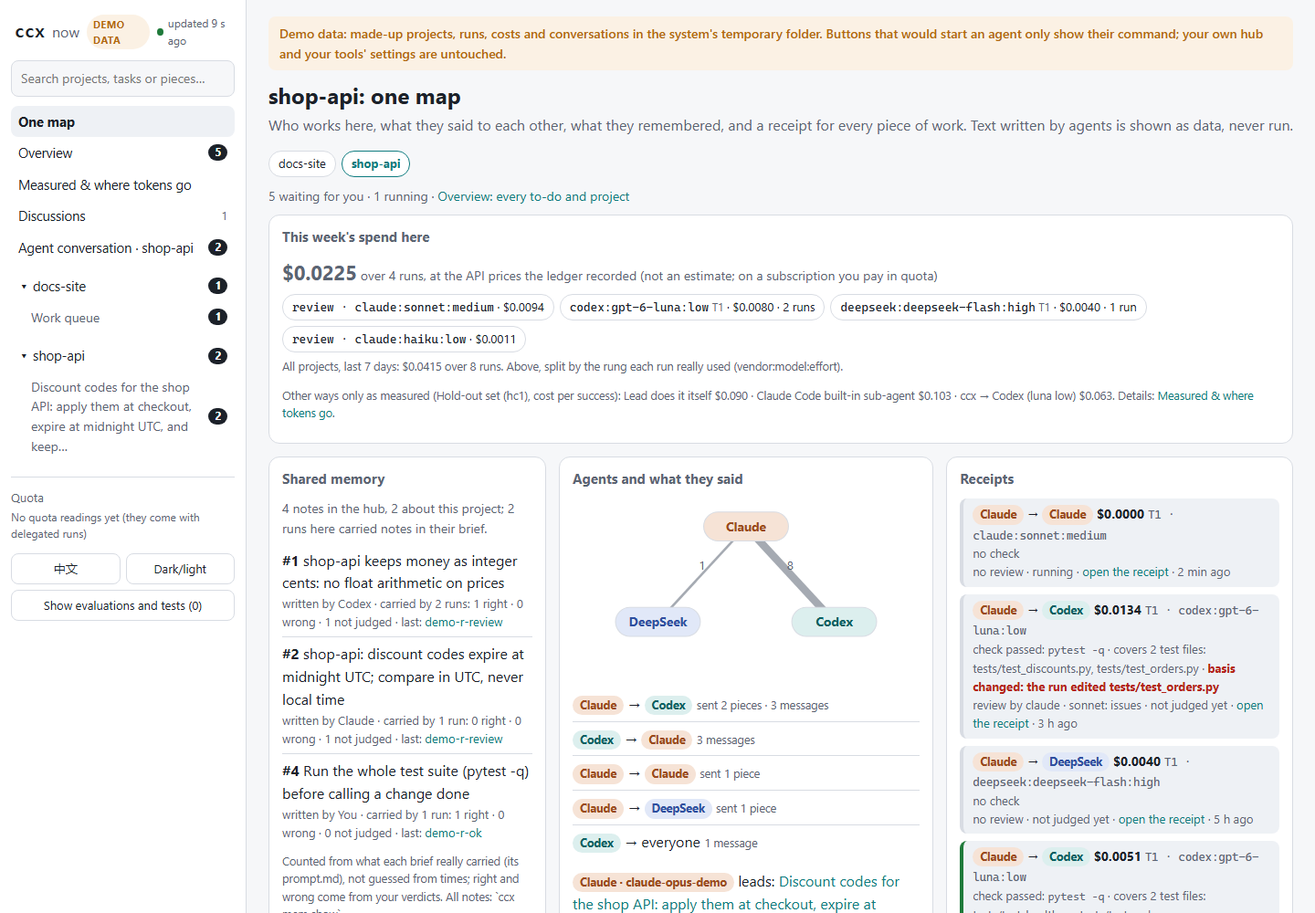
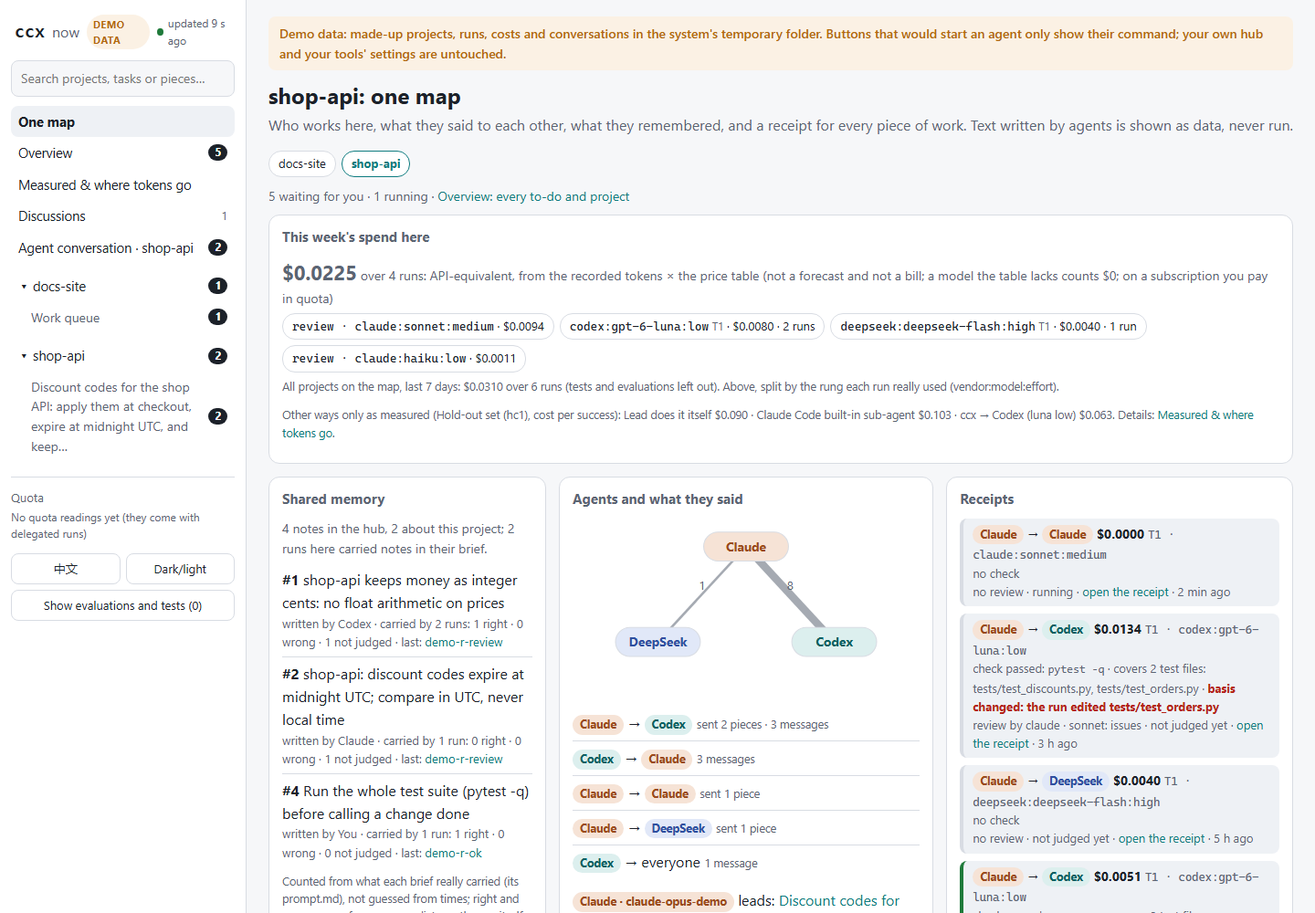
首页一张图：修审查意见（soft 判断不算你的、审查花费不重复算、测试运行不上图、措辞改成 API 等价花费）
- _outcome / 收据只认你的判断；dismissed、被停下、超预算、policy、环境等算未定
- 收据和档位标签取最后一次尝试的 tier；审查花费单独一个标签
- 只读 ## Task 之前的便签段；对话板话题按 since 过滤；派活连线按 vendor_of 归名
- 总览本周花费不再重复算审查运行；运行按项目先分组一次
- 页面记住上次显示的项目；文档改成"总览（#/all）"；重拍首页截图

Changed region(s): [[0.2188, 0.279, 0.9688, 1.0], [0.7188, 0.496, 0.9688, 0.992], [0.4375, 0.496, 0.6875, 1.0]]

diff --git a/ccx/ui_static/app.js b/ccx/ui_static/app.js
@@ -348,10 +348,12 @@
     return "";
   }
   function whoOrYou(w) { return vendorOf(w) === "user" ? `<span class="who you">${t("conv_you")}</span>` : who(vendorOf(w)); }
+  let MAPPID = null;
   function renderMap(pid) {
     const ms = maps();
     if (!ms.length) return renderOverview();          /* nothing worked on yet: the overview's first steps */
-    const m = ms.find(x => x.id === pid) || busiest(ms), pr = findProject(m.id);
+    const m = ms.find(x => x.id === pid) || ms.find(x => x.id === MAPPID) || busiest(ms), pr = findProject(m.id);
+    MAPPID = m.id;                                    /* the next poll keeps this project, it never jumps */
     let h = banner() + `<h1>${t("map_title", {p: m.name})}</h1><p class="lead">${t("map_intro")}</p>`;
     if (ms.length > 1) h += `<nav class="mapproj" aria-label="${esc(t("projects"))}">` + ms.map(x =>
       `<a class="chip${x.id === m.id ? " cur" : ""}" href="${mapHref(x.id)}"${x.id === m.id ? ` aria-current="page"` : ""}>${esc(x.name)}</a>`).join("") + `</nav>`;
@@ -371,7 +373,8 @@
     return `<p class="stat">${n ? `<span class="warn">${t("map_wait", {n})}</span>` : `<span class="good">${t("ov_nothing")}</span>`} · ${t("map_running", {n: running})} · <a href="#/all">${t("map_all")}</a></p>`;
   }
   function mapSpendHTML(m) {
-    const s = m.spend || {}, w = (D && D.week) || {}, ref = D && D.measured_ref;
+    const s = m.spend || {}, ref = D && D.measured_ref;
+    const w = maps().reduce((a, x) => ({usd: a.usd + ((x.spend || {}).usd || 0), runs: a.runs + ((x.spend || {}).runs || 0)}), {usd: 0, runs: 0});
     let h = `<h2>${t("map_spend")}</h2><p class="stat"><b class="big">${usd(s.usd || 0)}</b> ${t("map_spend_runs", {n: s.runs || 0})}</p>`;
     if ((s.rungs || []).length) h += `<div class="rungs">` + s.rungs.map(r => `<span class="chip"><span class="mono">${r.review ? t("map_rung_review") + " · " : ""}${esc(r.rung)}</span>${r.tier ? ` <i>${esc(r.tier)}</i>` : ""} · ${usd(r.usd)}${r.runs ? " · " + t("map_runs_n", {n: r.runs}) : ""}</span>`).join("") + `</div>`;
     h += `<p class="cost">${t("map_spend_all", {u: usd(w.usd || 0), n: w.runs || 0})}</p>`;

diff --git a/ccx/ui.py b/ccx/ui.py
@@ -1235,9 +1235,11 @@ def brief_notes(rd: Reader, run_dir: Path) -> list[int]:
     except OSError:
         return []
     seqs: list[int] = []
-    i = text.find(NOTES_HEAD)
+    j = text.find("\n## Task")                 # the notes sit above the task: a brief quoting the line is no note
+    j = j if j >= 0 else len(text)
+    i = text.find(NOTES_HEAD, 0, j)
     if i >= 0:
-        for line in text[i:].splitlines()[1:]:
+        for line in text[i:j].splitlines()[1:]:
             if not line.strip() or line.startswith("#"):        # the block ends at a blank line or the next heading
                 break
             m = _NOTE_LINE.match(line)
@@ -1247,13 +1249,26 @@ def brief_notes(rd: Reader, run_dir: Path) -> list[int]:
     return seqs
 
 
-def _outcome(rec: dict, verdict: dict | None) -> str:
-    """right / wrong / open: the person's verdict first, then a run that ended failed; a done run nobody judged is open."""
+# a run that ended for one of these reasons says nothing about whether the work (or a note it carried) was right
+NOT_WRONG = {"env", "quota", "user_stopped", "over_budget", "policy", "needs_write", "timeout", "no_answer"}
+
+
+def _hard(rec: dict, verdict: dict | None) -> dict | None:
+    """The person's own verdict, or None: an automatic (soft) one is not theirs."""
     v = verdict if verdict is not None else rec.get("verdict")
-    if v and v.get("ok") is not None:
+    return v if v and v.get("ok") is not None and not v.get("soft") else None
+
+
+def _outcome(rec: dict, verdict: dict | None) -> str:
+    """right / wrong / open: the person's verdict first, then a run that ended failed; a done run nobody judged, a
+    dismissed one, or one stopped by its machine, quota, budget, policy or the person, is open."""
+    v = _hard(rec, verdict)
+    if v:
         return "right" if v["ok"] else "wrong"
-    if rec.get("state") == "finished" and rec.get("ok") is False and rec.get("kind") not in ("env", "quota"):
-        return "wrong"                            # a run its machine or quota stopped says nothing about the notes
+    if rec.get("dismissed"):
+        return "open"
+    if rec.get("state") == "finished" and rec.get("ok") is False and rec.get("kind") not in NOT_WRONG:
+        return "wrong"
     return "open"
 
 
@@ -1275,10 +1290,11 @@ def receipt_row(rd: Reader, p: Paths, rec: dict, verdict: dict | None, piece_run
                          own_only=bool(cov.get("own_tests_only")))
             if cov.get("basis_changed"):
                 check["basis_changed"] = [_field(x) for x in (cov.get("edited") or [])[:3]]
-    v = verdict if verdict is not None else rec.get("verdict")
+    v = _hard(rec, verdict)
+    last = atts[-1] if atts else {}
     return {"run_id": rec["run_id"], "piece": piece_run.get(rec["run_id"], rec["run_id"]), "ts": rec.get("ts"),
-            "from": rec.get("caller"), "to": rec.get("to"), "tier": rec.get("tier"),
-            "rung": (atts[-1].get("rung") if atts else None) or rec.get("first_rung"), "rounds": len(atts),
+            "from": rec.get("caller"), "to": rec.get("to"), "tier": last.get("tier") or rec.get("tier"),
+            "rung": last.get("rung") or rec.get("first_rung"), "rounds": len(atts),
             "usd": _usd(rec), "running": rec.get("state") == "running", "ok": rec.get("ok"), "kind": rec.get("kind"),
             "check": check,
             "review": rv.get("verdict") if rv.get("verdict") not in (None, "not-run") else None,
@@ -1287,10 +1303,10 @@ def receipt_row(rd: Reader, p: Paths, rec: dict, verdict: dict | None, piece_run
             "notes": brief_notes(rd, p.runs / rec["run_id"])}
 
 
-def _map_threads(rd: Reader, root: Path, todos: list[dict]) -> tuple[list[dict], dict]:
-    """The board's threads (newest first) with who took part and whether one waits for the person, and the
-    messages between agents counted per pair (from -> to; to `all` counts once)."""
-    es = board_entries(rd, root)
+def _map_threads(rd: Reader, root: Path, todos: list[dict], since: float) -> tuple[list[dict], dict]:
+    """The board's threads (newest first, from messages since `since`) with who took part and whether one waits for the
+    person, and the messages between agents counted per pair (from -> to; to `all` counts once)."""
+    es = [e for e in board_entries(rd, root) if (_board_ts(e.get("ts")) or 0) >= since]
     wait = {}
     for x in todos:
         wait.setdefault(x["key"], x["kind"])
@@ -1313,18 +1329,18 @@ def _map_threads(rd: Reader, root: Path, todos: list[dict]) -> tuple[list[dict],
 
 
 def project_map(rd: Reader, p: Paths, pr: dict, runs: list[dict], verdicts: dict, piece_run: dict[str, str],
-                conv: dict | None, talks: list[dict], week_from: float) -> dict:
+                conv: dict | None, talks: list[dict], week_from: float, since: float = 0) -> dict:
     """P2-10: one project on one page. Middle: the agents and what they said to each other (board threads, `ccx
     discuss` talks, who sent work to whom); left: shared memory and the runs whose brief carried a note, with how
     they ended; right: the receipts; top: this week's actual spend by the rung it ran on. Read only, never a model."""
     root = Path(pr["path"])
     runs = sorted(runs, key=lambda r: -float(r.get("ts") or 0))
     rows = [receipt_row(rd, p, r, verdicts.get(r["run_id"]), piece_run) for r in runs]
-    threads, pairs = _map_threads(rd, root, (conv or {}).get("todos") or [])
+    threads, pairs = _map_threads(rd, root, (conv or {}).get("todos") or [], since)
     sent: dict[tuple, int] = {}
     for r in runs:
         if r.get("caller") and r.get("to"):
-            k = (str(r["caller"]), str(r["to"]))
+            k = (board.vendor_of(str(r["caller"])), board.vendor_of(str(r["to"])))   # named as the board does
             sent[k] = sent.get(k, 0) + 1
     names = {a for k in [*sent, *pairs] for a in k if a not in ("all", "user")}
     names |= {t["lead"]["agent"] for t in pr["tasks"] if t["lead"].get("agent")}
@@ -1362,12 +1378,12 @@ def project_map(rd: Reader, p: Paths, pr: dict, runs: list[dict], verdicts: dict
     for r in week:
         for a in r.get("attempts") or []:
             k = a.get("rung") or "?"
-            x = rungs.setdefault(k, {"rung": k, "tier": r.get("tier"), "usd": 0.0, "runs": 0})
+            x = rungs.setdefault(k, {"rung": k, "tier": a.get("tier") or r.get("tier"), "usd": 0.0, "runs": 0})
             x["usd"] = round(x["usd"] + float(a.get("ae_usd") or 0), 6)
         rv = r.get("review") or {}
-        if rv.get("usd"):                         # the review's own spend, under the rung that reviewed
-            k = rv.get("by") or "review"
-            x = rungs.setdefault(k, {"rung": k, "tier": None, "usd": 0.0, "runs": 0, "review": True})
+        if rv.get("usd"):                         # the review's own spend: a chip of its own beside the rung's
+            by = rv.get("by") or "?"
+            x = rungs.setdefault("review:" + by, {"rung": by, "tier": None, "usd": 0.0, "runs": 0, "review": True})
             x["usd"] = round(x["usd"] + float(rv["usd"]), 6)
         for k in {a.get("rung") or "?" for a in r.get("attempts") or []}:
             rungs[k]["runs"] += 1
@@ -1563,7 +1579,7 @@ def collect(p: Paths, project: Path | None = None, days: float = 7, rd: Reader |
               for e in quiet[:12]]
 
     providers = set((cfg.get("providers") or {}).keys())
-    week = [r for r in recs.values() if float(r.get("ts") or 0) >= now - 7 * 86400]
+    week = [r for r in shown.values() if float(r.get("ts") or 0) >= now - 7 * 86400]   # a review is in its run's
     hard = [v for v in verdicts.values() if not v.get("soft")]
     agents = sorted({pc["worker"] for pr in projects for t in pr["tasks"] for pc in _walk(t["pieces"])
                      if pc.get("worker")} | {x["agent"] for x in current})
@@ -1585,11 +1601,15 @@ def collect(p: Paths, project: Path | None = None, days: float = 7, rd: Reader |
     convs.sort(key=lambda c: -(c["last"] or 0))
     maps = []                                                 # P2-10: the home page, one map per project
     conv_of = {c["id"]: c for c in convs}
+    real_by_root: dict[Path, list[dict]] = {}                 # a test or evaluation run is not the project's work
+    for r in shown.values():
+        if not is_test(r, scratch):
+            real_by_root.setdefault(root_of(r), []).append(r)
     for pr in projects:
         root = Path(pr["path"])
         try:
-            maps.append(project_map(rd, p, pr, [r for r in shown.values() if root_of(r) == root], verdicts,
-                                    piece_run, conv_of.get(pr["id"]), talks, now - 7 * 86400))
+            maps.append(project_map(rd, p, pr, real_by_root.get(root, []), verdicts,
+                                    piece_run, conv_of.get(pr["id"]), talks, now - 7 * 86400, since))
         except Exception:  # noqa: BLE001 — the page still shows the rest
             continue
     from . import memsuggest

diff --git a/tests/test_ui_map.py b/tests/test_ui_map.py
@@ -64,10 +64,13 @@ def test_brief_notes_reads_only_the_notes_block(tmp_path):
     rd = ui.Reader(Paths(tmp_path / "hub"))
     d = tmp_path / "run"
     d.mkdir()
-    (d / "prompt.md").write_text("## Task\nfix - #9 (x): not a note\n\n" + ui.NOTES_HEAD + " (facts):\n"
-                                 "- #3 (shop-api): money in cents\n- #12 (general): run pytest\n\n## Finish\n"
+    (d / "prompt.md").write_text("Run x\n" + ui.NOTES_HEAD + " (facts):\n- #3 (shop-api): money in cents\n"
+                                 "- #12 (general): run pytest\n\n## Task\nfix - #9 (x): not a note\n\n## Finish\n"
                                  "- #44 (later): not in the block\n", encoding="utf-8")
     assert ui.brief_notes(rd, d) == [3, 12]
+    # the person's brief quoting the notes line (below "## Task") is not a note the brief carried
+    (d / "prompt.md").write_text("Run x\n## Task\n" + ui.NOTES_HEAD + ":\n- #7 (x): quoted\n", encoding="utf-8")
+    assert ui.brief_notes(rd, d) == []
     (d / "prompt.md").write_text("## Task\nno notes\n", encoding="utf-8")
     assert ui.brief_notes(rd, d) == []
     assert ui.brief_notes(rd, tmp_path / "missing") == []
@@ -127,3 +130,45 @@ def test_page_keeps_every_old_entry_and_has_both_languages():
     import re
     used = {k for k in re.findall(r'"(map_[a-z_]+)"', js) if not k.endswith("_")}      # "map_rv_" + verdict: a prefix
     assert used <= keys | {k[:-2] for k in keys if k.endswith("_1")}, used - keys
+
+
+def test_only_the_persons_own_verdict_and_a_real_failure_count():
+    """An automatic (soft) verdict is not the person's; a dismissed run, or one stopped by the person, a budget, a
+    policy or its machine, says nothing about whether the work was right."""
+    done = {"run_id": "r", "state": "finished", "ok": False, "kind": "check_failed"}
+    assert ui._outcome(done, None) == "wrong"
+    assert ui._outcome({**done, "ok": True}, {"ok": True, "soft": True}) == "open"
+    assert ui._outcome(done, {"ok": True}) == "right"
+    assert ui._outcome({**done, "dismissed": True}, None) == "open"
+    for kind in ("user_stopped", "over_budget", "policy", "needs_write", "timeout", "no_answer", "env", "quota"):
+        assert ui._outcome({**done, "kind": kind}, None) == "open", kind
+
+
+def test_receipt_takes_the_last_attempts_tier_and_ignores_a_soft_verdict(tmp_path):
+    p = Paths(tmp_path / "hub")
+    rec = {"run_id": "r", "state": "finished", "ok": True, "tier": "T1",
+           "attempts": [{"rung": "codex:a:low", "tier": "T1"}, {"rung": "codex:b:high", "tier": "T3"}]}
+    row = ui.receipt_row(ui.Reader(p), p, rec, {"ok": True, "soft": True}, {})
+    assert row["verdict"] is None and row["outcome"] == "open"
+    assert (row["tier"], row["rung"]) == ("T3", "codex:b:high")          # the tier the last attempt really ran on
+
+
+def test_map_leaves_out_test_runs_and_the_week_counts_a_review_once():
+    """An evaluation run in a real project is not on its map; a review (an ephemeral run of its own) is counted in
+    its run's spend only, so the week line is the maps' sum here."""
+    base = demo.new_base()
+    try:
+        p = demo.build(base)
+        with mock.patch.dict(os.environ, demo.env(base)):
+            src = json.loads((p.runs / "demo-r-ok" / "run.json").read_text(encoding="utf-8"))
+            ev = {**src, "run_id": "eval-x", "label": "eval-hc1-x", "ts": src["ts"] + 1,
+                  "attempts": [{**src["attempts"][0], "ae_usd": 5.0}]}
+            (p.runs / "eval-x").mkdir()
+            (p.runs / "eval-x" / "run.json").write_text(json.dumps(ev), encoding="utf-8")
+            assert ui.is_test(ev, ui.scratch_roots(p))
+            d = ui.collect(p, quota_wait=False)
+    finally:
+        demo.remove(base)
+    m = the_map(d, demo.SHOP)
+    assert "eval-x" not in {r["run_id"] for r in m["receipts"]} and m["spend"]["usd"] < 1
+    assert round(d["week"]["usd"] - ui._usd(ev), 4) == round(sum(x["spend"]["usd"] for x in d["maps"]), 4)

diff --git a/ccx/demo.py b/ccx/demo.py
@@ -96,10 +96,11 @@ def _run(p: Paths, run_id: str, cwd: Path, brief: str, ts: float, *, to: str = "
     d = p.runs / run_id
     d.mkdir(parents=True, exist_ok=True)
     _write(d / "run.json", json.dumps(rec, ensure_ascii=False, indent=1))
-    # the shared notes the brief carried, as delegate._brief_notes writes them (the home page links note -> run)
+    # the shared notes the brief carried, where delegate._brief_notes puts them: above the task (the home page links
+    # note -> run)
     carried = ("Shared notes that may bear on this task (facts recorded earlier; check before relying on them):\n"
                + "".join(f"- #{e['seq']} ({e['topic']}): {e['text']}\n" for e in notes) + "\n") if notes else ""
-    _write(d / "prompt.md", f"[ccx sub-task {run_id}]\n## Task\n{brief}\n\n{carried}## Finish\nReturn the result JSON.\n")
+    _write(d / "prompt.md", f"[ccx sub-task {run_id}]\n{carried}## Task\n{brief}\n\n## Finish\nReturn the result JSON.\n")
     if record and rec["state"] == "finished":
         from . import ledger
         ledger.append(p, rec)

diff --git a/docs/features.zh.md b/docs/features.zh.md
@@ -31,11 +31,11 @@
 
 ## 实时看：`ccx ui`
 
-**首页是一个项目一张图**（P2-10）：中间是这个项目里的智能体和它们之间的往来（谁给谁派活、对话板话题、`ccx discuss` 讨论；被机器连续条数上限停下的话题、在问你的消息列为待办）；左边是共享记忆，连到说明里带了便签的那几次派活（从派活说明本身读出，不靠猜），以及这些派活最后对没对（你的判断）；右边每次派活一张收据（谁派给谁、档位和实际用的模型档、花费、check 覆盖了哪些测试、这次派活有没有改自己的测试、审查结论、你的判断）；顶上是本周花费，只按记录相加、按实际用到的档位分开，其他做法只列已发布的实测表，不估算；底下是能力表（谁擅长什么），记过对错的活不够时显示“数据不足”。下面这些页面都还在原处：带全部待办和按钮的总览在 `#/all`。
+**首页是一个项目一张图**（P2-10）：中间是这个项目里的智能体和它们之间的往来（谁给谁派活、对话板话题、`ccx discuss` 讨论；被机器连续条数上限停下的话题、在问你的消息列为待办）；左边是共享记忆，连到说明里带了便签的那几次派活（从派活说明本身读出，不靠猜），以及这些派活最后对没对（你的判断；运行本身失败算错，被你停下、超预算、环境问题不算）；右边每次派活一张收据（谁派给谁、档位和实际用的模型档、花费、check 覆盖了哪些测试、这次派活有没有改自己的测试、审查结论、你的判断）；顶上是本周的 API 等价花费（记录里的 token × 价格表，不是账单；测试和评测不算），按实际用到的档位分开，其他做法只列已发布的实测表，不估算；底下是能力表（谁擅长什么），记过对错的活不够时显示“数据不足”。下面这些页面都还在原处：带全部待办和按钮的总览在 `#/all`。
 
 <img alt="ccx ui 首页：一个项目一张图——顶上花费，共享记忆、智能体和对话、收据（演示数据）" src="assets/ui/map-zh.png" width="100%">
 
-`ccx ui` 在本机打开一个页面：有什么等你处理（红框 = 要你拍板，橙框 = 要你 review）、谁在干什么（每个智能体一列，新加的自动多一列）、额度按现在的速度够不够。点任何一块，右边显示原因、依据和按钮（因本机环境停下的运行，`kind: env`，显示修复提示和 `ccx doctor`，不给“再试一次”；hub 还是空的时，首页说第一步该运行什么）。它也是总管看板：`ccx projects` 目录里的所有项目（项目里有工作队列，就算这里最近没派过活也会显示；没动静的项目只占一行；项目页摘出它规则文件里讲审批的原句），以及这个月子智能体花了多少；省了多少要等 `ccx trial` 实测之后才显示（到目前为止实测总花费基本持平，见 docs/measured.zh.md；和 `ccx report` 同一规则）。会改东西的按钮——停下运行、记对错、再改一轮、续跑、允许它改、改队列预算——先显示要运行的完整 `ccx` 命令，再点一次才运行；会启动子智能体的按钮会写明要花钱，并在后台跑。页面只告诉服务端“按了哪个按钮”，从不发命令；服务端只运行固定几条 ccx 命令，按参数列表运行（不经过 shell），只接受这个页面自己的请求（同源、口令、一次性确认）。“建议记下的事”每条有同意/拒绝按钮。显示页面只读 ccx 和各工具本来就写下的文件，不调用任何模型；只监听 127.0.0.1，页面关掉约一分钟后自己退出（若当时在后台标签页，最多 5 分钟）。要你 review 的卡片并排显示“它说”（它的总结、它说自己怎么验证的）和“ccx 实际跑了”（验收命令、退出码、最后约 800 字的输出），下面是实际改动的文件和 diff：用 ccx 自己给这次运行记的快照算（运行前的树 `undo.json` 到运行结束时的树 `end.json` 或 `undo.json` 里的 `after`），从不对着现在的目录算；它报的文件和实际改动对不上时，用红框列出差别。diff 太长会截断并写明“已截断”；没有这些快照的旧运行照旧只显示它自己报的文件，并加一句说明。首页列出所有正在跑的运行（谁在跑、跑了多久、知道的话还有 token 数），每条带“停下它”按钮，同样要再点一次确认。页面在后台标签页时，“还开着”的信号会说明这一点，服务端这时等 5 分钟而不是 1 分钟才退出。待办小标签改成按钮（键盘可达），新待办会通过读屏播报。“智能体对话”页面显示各智能体在对话板上互相写的话（`ccx say`），最新的话题在前；被机器连续条数上限停下的话题、在问你的消息（`@person`）会出现在待办里，你可以直接在页面上回复：先给你看，再点一次才以你的身份写入（via ui），最多 4000 字，永远不会运行（[对话板](board.zh.md#在-ccx-ui-里看和回复)）。`ccx ui --export 快照.html` 生成静态副本；`ccx config set ui.lang zh|en` 选语言。**实测与 token 去向**页面（只读）分三部分。(1) 已发布的数字（留出集和第 5 轮两张表：做法、做对、每次成功的花费、用时中位数；留出集里只看外部仓库的那几行是干净的，单独成一张小表；每张表的限制写成一行，并链接 [实测](measured.zh.md)；有测试按做法和轮次逐格对照 measured.md 和 measured.zh.md 里的表），下面是你自己账本里的数字（运行次数、成功率、每次成功的 API 等价花费，按模式和智能体分），标明“你自己的运行，不是对照比较”。(2) token 去向：Claude 和 Codex 记在同一本账上，按任务分组（没有任务按标签，再没有按单次运行）；每次运行显示新读入、读缓存、写缓存、输出 token 和 API 等价花费（日志里读得到时，还有它自己这段对话发了几次请求、首请求的输入、平均每次请求的输入——也就是每次重发的那段前缀，省 token 的改动要降的就是这几个数；这里不算子会话的请求，而 token 那几列含子会话），下面是它自己开的子会话（Codex 的来自运行记录里的 `codex_children`，Claude 的来自子运行的 `<session>/subagents/*.jsonl`）及其占这次运行的比例；一次运行的总数本来就含这些子会话。续跑或接着做的运行只显示它的子会话新增的部分（减掉前一次运行自己的记录，不受筛选和分组影响）；几次运行共用一个 Claude 会话时，每次运行只算自己那段时间里的子智能体轮次。比例不封顶：超过 100% 时页面会说明两边的数对不上。可按今天 / 7 天 / 全部和项目筛选（用了 `ccx ui --project` 时，“全部项目”也真的是全部）。按智能体的合计大的在前。只列最新的 40 个任务，并写明省掉了多少，以及它们的 token 和金额。(3) 主导对话：派过活的主导会话，最新的在前；打开一个时才读它的会话文件，用的就是 `ccx lead --breakdown` 和 `ccx lead --cache` 的函数：每一轮重读的内容按部分有多大、建议，以及提示缓存断开的那几轮和可能的原因。只读账本里点名的会话；返回内容有大小上限；所有标签和会话文字都转义；hub 为空时说明该先运行什么。每个项目页（以及任务的“经过”下面）有**谁在主导**：现在由谁主导、每段时间由谁主导（来自 `.ccx/handoffs/` 里的交接记录），以及“交给 Codex 继续”/“交给 Claude 继续”（装了 `dsh` 的机器上还有 DeepSeek）。按钮同样要再点一次才运行 `ccx handoff --to <另一个> --by <当前> --cwd <项目>`；当前主导在这个目录的对话文件存在时加上 `--from-transcript <当前> --no-model`（只用代码整理，不调模型）。结果是交接文件和一行话：在那个工具里打开这个项目时贴给它（Claude Code 和 Codex 启动时也会自动显示一次这份交接；DeepSeek 不会，这一行让它去读那份文件）。找不到那个对话文件时，交接是空白模板，页面在确认前和完成后都会说明：先自己填好。任务时间线标出任务开始时由谁主导、之后每次换主导。页面上没有别的新写入。**`ccx demo`**（或 `ccx ui --demo`）不用账号就能看到这些：它在系统临时目录新建一个文件夹，写入编好的数据（两个项目、各种状态的运行且带真实快照 diff、一次派活的完整收据——花了多少、ccx 跑的检查、另一家的审查——审查本身也记成运行、一个工作队列、一个被停下的对话话题和一个 `@person` 提问、一个月的花费，以及给 token 去向页用的每次请求数和一个 Codex 子会话），只让它自己的进程指向那里，用同一个页面显示并标明“演示数据”。离线可用，不启动任何智能体：会启动智能体的按钮只显示命令；记对错或交接只写进演示文件夹，页面关掉后文件夹会删掉（`--keep` 或 `--dir` 保留；`--export 文件` 生成静态副本，之后同样删掉文件夹）。`--dir` 只接受新的或空的文件夹，或以前的演示文件夹。评测和测试（eval-* 标签、`--no-ab`、ccx 自己的探针、在临时目录或项目 `.ccx` 目录里跑的）默认不显示，点“显示评测与测试”才出来；`ccx verify RUN --dismiss --note 原因` 把测试残留从“等你处理”里清掉，不算对也不算错，路由也不从它学习。
+`ccx ui` 在本机打开一个页面：有什么等你处理（红框 = 要你拍板，橙框 = 要你 review）、谁在干什么（每个智能体一列，新加的自动多一列）、额度按现在的速度够不够。点任何一块，右边显示原因、依据和按钮（因本机环境停下的运行，`kind: env`，显示修复提示和 `ccx doctor`，不给“再试一次”；hub 还是空的时，首页说第一步该运行什么）。它也是总管看板：`ccx projects` 目录里的所有项目（项目里有工作队列，就算这里最近没派过活也会显示；没动静的项目只占一行；项目页摘出它规则文件里讲审批的原句），以及这个月子智能体花了多少；省了多少要等 `ccx trial` 实测之后才显示（到目前为止实测总花费基本持平，见 docs/measured.zh.md；和 `ccx report` 同一规则）。会改东西的按钮——停下运行、记对错、再改一轮、续跑、允许它改、改队列预算——先显示要运行的完整 `ccx` 命令，再点一次才运行；会启动子智能体的按钮会写明要花钱，并在后台跑。页面只告诉服务端“按了哪个按钮”，从不发命令；服务端只运行固定几条 ccx 命令，按参数列表运行（不经过 shell），只接受这个页面自己的请求（同源、口令、一次性确认）。“建议记下的事”每条有同意/拒绝按钮。显示页面只读 ccx 和各工具本来就写下的文件，不调用任何模型；只监听 127.0.0.1，页面关掉约一分钟后自己退出（若当时在后台标签页，最多 5 分钟）。要你 review 的卡片并排显示“它说”（它的总结、它说自己怎么验证的）和“ccx 实际跑了”（验收命令、退出码、最后约 800 字的输出），下面是实际改动的文件和 diff：用 ccx 自己给这次运行记的快照算（运行前的树 `undo.json` 到运行结束时的树 `end.json` 或 `undo.json` 里的 `after`），从不对着现在的目录算；它报的文件和实际改动对不上时，用红框列出差别。diff 太长会截断并写明“已截断”；没有这些快照的旧运行照旧只显示它自己报的文件，并加一句说明。总览（`#/all`）列出所有正在跑的运行（谁在跑、跑了多久、知道的话还有 token 数），每条带“停下它”按钮，同样要再点一次确认。页面在后台标签页时，“还开着”的信号会说明这一点，服务端这时等 5 分钟而不是 1 分钟才退出。待办小标签改成按钮（键盘可达），新待办会通过读屏播报。“智能体对话”页面显示各智能体在对话板上互相写的话（`ccx say`），最新的话题在前；被机器连续条数上限停下的话题、在问你的消息（`@person`）会出现在待办里，你可以直接在页面上回复：先给你看，再点一次才以你的身份写入（via ui），最多 4000 字，永远不会运行（[对话板](board.zh.md#在-ccx-ui-里看和回复)）。`ccx ui --export 快照.html` 生成静态副本；`ccx config set ui.lang zh|en` 选语言。**实测与 token 去向**页面（只读）分三部分。(1) 已发布的数字（留出集和第 5 轮两张表：做法、做对、每次成功的花费、用时中位数；留出集里只看外部仓库的那几行是干净的，单独成一张小表；每张表的限制写成一行，并链接 [实测](measured.zh.md)；有测试按做法和轮次逐格对照 measured.md 和 measured.zh.md 里的表），下面是你自己账本里的数字（运行次数、成功率、每次成功的 API 等价花费，按模式和智能体分），标明“你自己的运行，不是对照比较”。(2) token 去向：Claude 和 Codex 记在同一本账上，按任务分组（没有任务按标签，再没有按单次运行）；每次运行显示新读入、读缓存、写缓存、输出 token 和 API 等价花费（日志里读得到时，还有它自己这段对话发了几次请求、首请求的输入、平均每次请求的输入——也就是每次重发的那段前缀，省 token 的改动要降的就是这几个数；这里不算子会话的请求，而 token 那几列含子会话），下面是它自己开的子会话（Codex 的来自运行记录里的 `codex_children`，Claude 的来自子运行的 `<session>/subagents/*.jsonl`）及其占这次运行的比例；一次运行的总数本来就含这些子会话。续跑或接着做的运行只显示它的子会话新增的部分（减掉前一次运行自己的记录，不受筛选和分组影响）；几次运行共用一个 Claude 会话时，每次运行只算自己那段时间里的子智能体轮次。比例不封顶：超过 100% 时页面会说明两边的数对不上。可按今天 / 7 天 / 全部和项目筛选（用了 `ccx ui --project` 时，“全部项目”也真的是全部）。按智能体的合计大的在前。只列最新的 40 个任务，并写明省掉了多少，以及它们的 token 和金额。(3) 主导对话：派过活的主导会话，最新的在前；打开一个时才读它的会话文件，用的就是 `ccx lead --breakdown` 和 `ccx lead --cache` 的函数：每一轮重读的内容按部分有多大、建议，以及提示缓存断开的那几轮和可能的原因。只读账本里点名的会话；返回内容有大小上限；所有标签和会话文字都转义；hub 为空时说明该先运行什么。每个项目页（以及任务的“经过”下面）有**谁在主导**：现在由谁主导、每段时间由谁主导（来自 `.ccx/handoffs/` 里的交接记录），以及“交给 Codex 继续”/“交给 Claude 继续”（装了 `dsh` 的机器上还有 DeepSeek）。按钮同样要再点一次才运行 `ccx handoff --to <另一个> --by <当前> --cwd <项目>`；当前主导在这个目录的对话文件存在时加上 `--from-transcript <当前> --no-model`（只用代码整理，不调模型）。结果是交接文件和一行话：在那个工具里打开这个项目时贴给它（Claude Code 和 Codex 启动时也会自动显示一次这份交接；DeepSeek 不会，这一行让它去读那份文件）。找不到那个对话文件时，交接是空白模板，页面在确认前和完成后都会说明：先自己填好。任务时间线标出任务开始时由谁主导、之后每次换主导。页面上没有别的新写入。**`ccx demo`**（或 `ccx ui --demo`）不用账号就能看到这些：它在系统临时目录新建一个文件夹，写入编好的数据（两个项目、各种状态的运行且带真实快照 diff、一次派活的完整收据——花了多少、ccx 跑的检查、另一家的审查——审查本身也记成运行、一个工作队列、一个被停下的对话话题和一个 `@person` 提问、一个月的花费，以及给 token 去向页用的每次请求数和一个 Codex 子会话），只让它自己的进程指向那里，用同一个页面显示并标明“演示数据”。离线可用，不启动任何智能体：会启动智能体的按钮只显示命令；记对错或交接只写进演示文件夹，页面关掉后文件夹会删掉（`--keep` 或 `--dir` 保留；`--export 文件` 生成静态副本，之后同样删掉文件夹）。`--dir` 只接受新的或空的文件夹，或以前的演示文件夹。评测和测试（eval-* 标签、`--no-ab`、ccx 自己的探针、在临时目录或项目 `.ccx` 目录里跑的）默认不显示，点“显示评测与测试”才出来；`ccx verify RUN --dismiss --note 原因` 把测试残留从“等你处理”里清掉，不算对也不算错，路由也不从它学习。
 
 截图：`ccx demo` 的数据，用 `python scripts/make_shots.py` 拍。
 

diff --git a/docs/features.md b/docs/features.md
@@ -36,9 +36,9 @@ and a test checks it).
 **The home page is one project on one map** (P2-10): in the middle the agents and what went between them (who sent
 work to whom, the board threads, `ccx discuss` talks; a thread stopped by the machine-message cap or a message that
 asks you is a to-do); on the left the shared memory, linked to the runs whose brief carried a note (read from the
-brief itself) and how those runs ended (your verdicts); on the right one receipt per run (who sent it to whom, tier
+brief itself) and how those runs ended (your verdicts; a run that failed counts wrong, one stopped by you, a budget or the machine stays open); on the right one receipt per run (who sent it to whom, tier
 and rung, cost, what the check covered and whether the run edited its own tests, the review, the verdict); on top
-this week's spend from the records, split by the rung each run used (other ways only as the published table measured
+this week's API-equivalent spend (the recorded tokens × the price table, not a bill; tests and evaluations left out), split by the rung each run used (other ways only as the published table measured
 them, never estimated); at the bottom who is good at what, which says "not enough data yet" until enough work is
 judged. Every page below stays where it was: the overview with every to-do and button is at `#/all`.
 
@@ -62,11 +62,11 @@ A review card shows, side by side, what the agent says (its summary and how it s
 diff, computed from ccx's own snapshots of the run (the tree before it, `undo.json`, to the tree it left, `end.json`
 or `undo.json`'s `after`), never from the folder as it is now; when the files the agent named and the files actually
 changed differ, a red box lists the difference. Long diffs are cut with a visible "truncated" note; runs from before
-these snapshots show the agent's own list with a note. The home page lists every run going on now (agent, time so
+these snapshots show the agent's own list with a note. The overview (`#/all`) lists every run going on now (agent, time so
 far, tokens when known) with its stop button, which asks for the same second click. A background tab says so in its
 "still open" signal, and the server then waits 5 minutes instead of one before it exits. To-do chips are buttons
 (keyboard reachable) and new to-dos are announced to screen readers.
-Each to-do on the home page starts with what you need to do (a coloured chip: your call, check the result, a
+Each to-do on the overview (`#/all`) starts with what you need to do (a coloured chip: your call, check the result, a
 question for you), then the agent's own words, then where it is. A finished write run's card has **Undo this run**
 next to the diff (`ccx undo <id> --apply`: puts back the files from ccx's snapshot, moves new files aside, starts
 nothing, and is not a verdict by itself; the confirm box lists the files, and when `ccx undo`'s dry run would also

diff --git a/changes/one-page-ui.md b/changes/one-page-ui.md
@@ -1,10 +1,12 @@
 - `ccx ui`'s home page is now one project on one map (P2-10): the agents and what went between them (runs sent,
   board threads, `ccx discuss` talks; a stopped thread or a message that asks you is a to-do) in the middle; shared
   memory on the left, linked to the runs whose brief carried a note (read from the run's `prompt.md`, never guessed)
-  and how they ended; one receipt per run on the right (who to whom, tier and rung, cost, the check's cover and a
-  red "basis changed" when the run edited its own tests, the review, the verdict); this week's spend on top, summed
-  from the records by rung, other ways only from the published hc1 table; a "who is good at what" table at the
+  and how they ended (only the person's verdict, or a run that really failed, counts; an automatic verdict, a dismissed
+  run or one stopped by the person, a budget or the machine stays open); one receipt per run on the right (who to whom, tier and rung, cost, the check's cover and a
+  red "basis changed" when the run edited its own tests, the review, the verdict); this week's API-equivalent spend on top
+  (recorded tokens × the price table, tests and evaluations left out), by rung, the review as a chip of its own, other ways only from the published hc1 table; a "who is good at what" table at the
   bottom that says "not enough data yet" until enough work is judged. `#/map/<project>` picks another project. The
   former home page (every to-do and its buttons) moved to `#/all` and stays in the nav; every other page keeps its
   address. `ccx demo` now seeds four shared notes carried by four runs, check covers (one with a changed basis) and a
-  discussion, so the map is full; a headless browser test renders it.
+  discussion, so the map is full; a headless browser test renders it. The overview's week line no longer counts a
+  review twice (its own ephemeral run and its run's `review.usd`).

diff --git a/docs/board.zh.md b/docs/board.zh.md
@@ -68,7 +68,7 @@ Claude Code 和 Codex 每轮开始前都会跑 `UserPromptSubmit` hook（Claude 
 （转义），从不当 HTML。送到页面的量有上限：最多 40 个话题、每个话题最近 80 条、每条 6000 字（超出标明截断；
 `ccx board --thread` 看全文）。
 
-首页的待办列表多两种，都链接到对应话题：
+总览（`#/all`，首页的图上也有）的待办列表多两种，都链接到对应话题：
 
 - **被机器连续条数上限停下的话题**：同一话题里机器连续 `board.max_machine_turns`（6）条，中间没有人说话（和 `ccx say`
   拒绝时用的是同一个计数）；按对话板规则，有人说话就消失（人在对话板上写一条，或人在这个话题的某个会话里自己打了一轮）；

diff --git a/docs/board.md b/docs/board.md
@@ -82,7 +82,7 @@ agents: the page always shows it as plain text (escaped), never as markup. What 
 threads, the last 80 messages of each, 6000 characters per message (marked as cut; `ccx board --thread` has it
 whole).
 
-Two kinds of to-do join the home page's list, each linking to its thread:
+Two kinds of to-do join the overview's list (`#/all`; the home map shows them too), each linking to its thread:
 
 - a thread **stopped by the machine-message cap**: `board.max_machine_turns` (6) machine messages in a row with no
   person in between (the same count `ccx say` refuses on); it clears once a person speaks, by the board's rules (a
